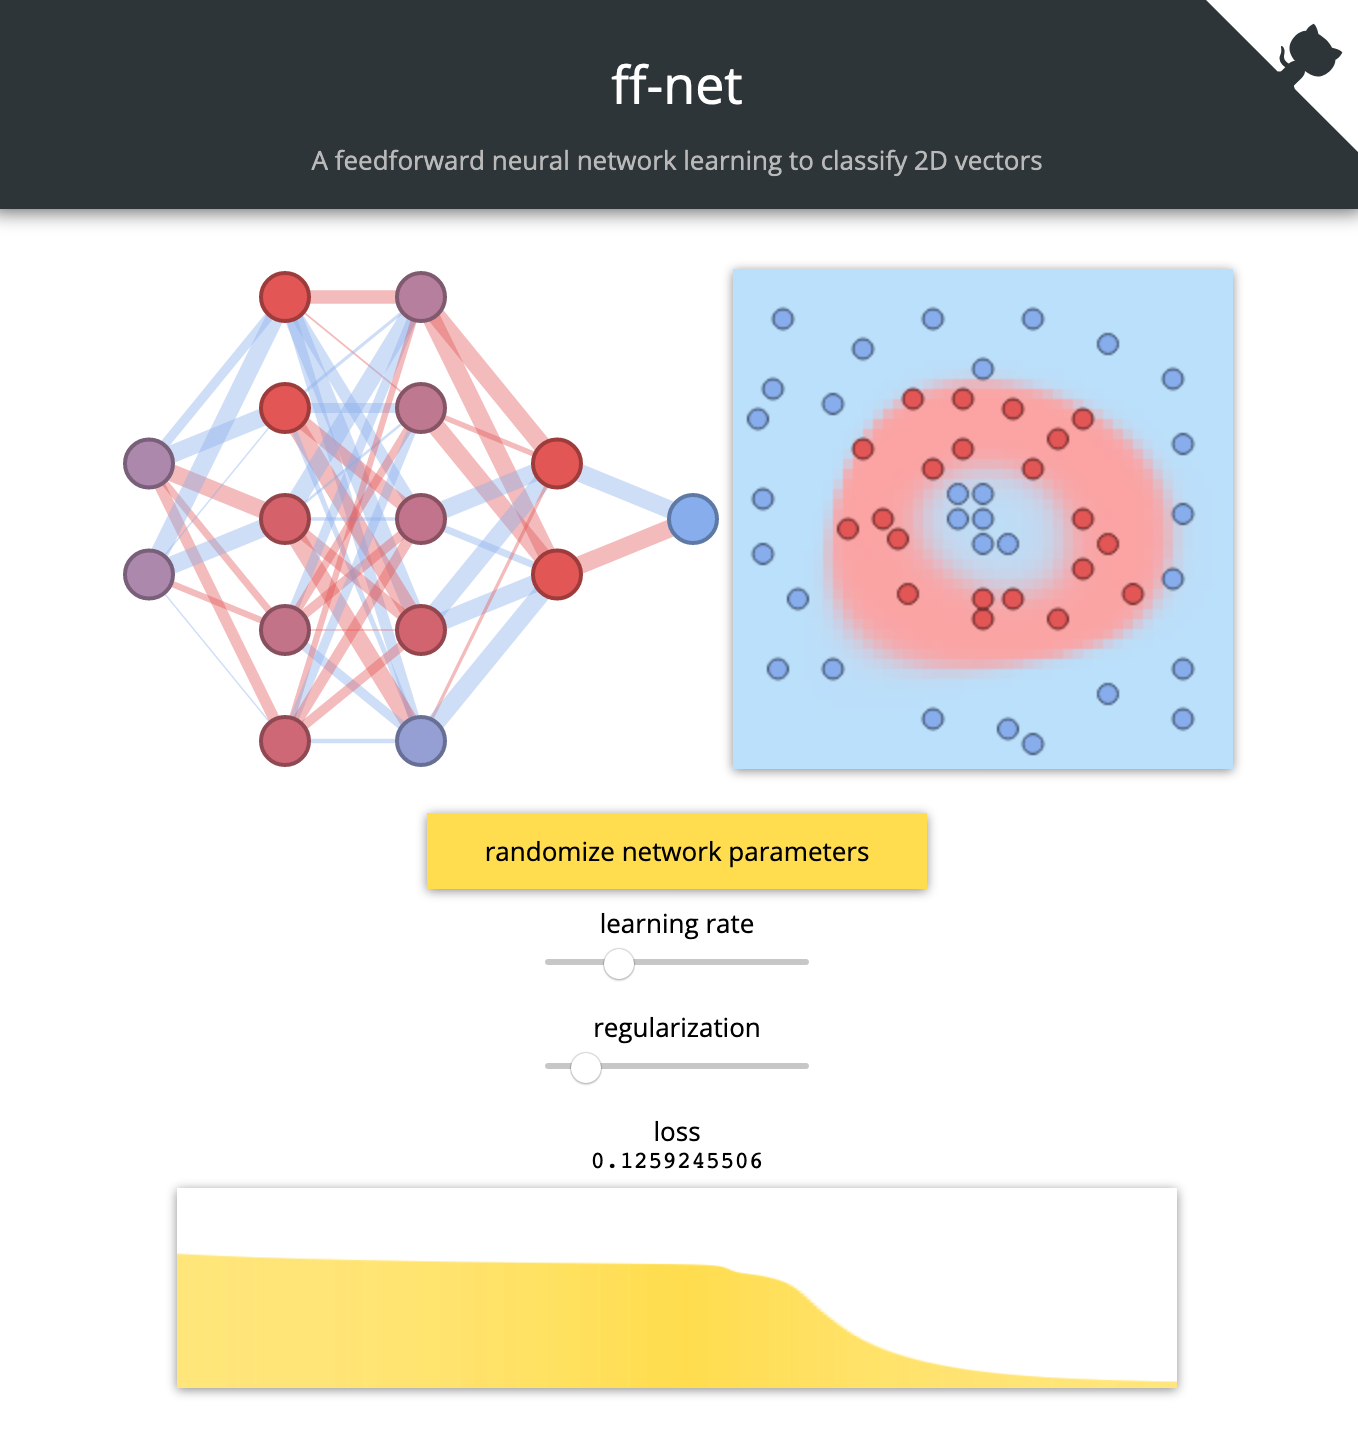
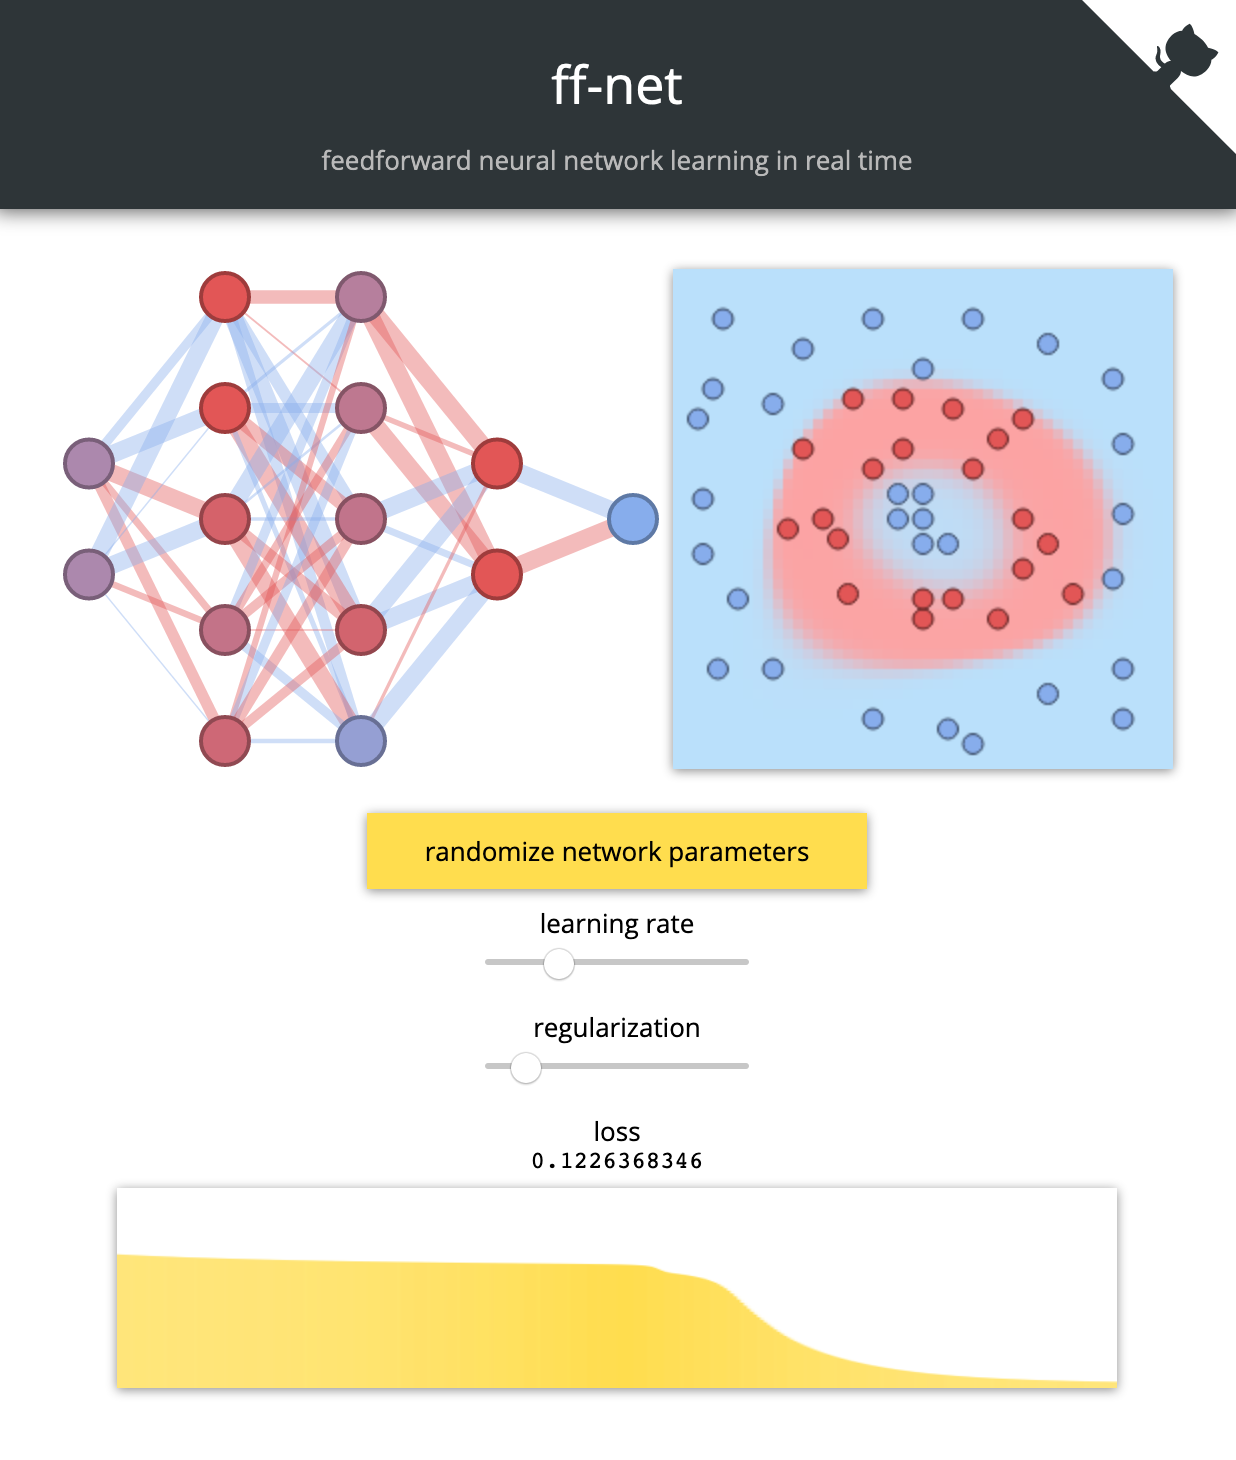
Update title

diff --git a/index.html b/index.html
@@ -13,7 +13,7 @@
     <a href="https://github.com/juniorrojas/ff-net" class="github-corner" aria-label="View source on GitHub"><svg class="view-on-github" width="80" height="80" viewBox="0 0 250 250" style="fill:#fff; color:#2d3538; position: absolute; top: 0; border: 0; right: 0;" aria-hidden="true"><path d="M0,0 L115,115 L130,115 L142,142 L250,250 L250,0 Z"></path><path d="M128.3,109.0 C113.8,99.7 119.0,89.6 119.0,89.6 C122.0,82.7 120.5,78.6 120.5,78.6 C119.2,72.0 123.4,76.3 123.4,76.3 C127.3,80.9 125.5,87.3 125.5,87.3 C122.9,97.6 130.6,101.9 134.4,103.2" fill="currentColor" style="transform-origin: 130px 106px;" class="octo-arm"></path><path d="M115.0,115.0 C114.9,115.1 118.7,116.5 119.8,115.4 L133.7,101.6 C136.9,99.2 139.9,98.4 142.2,98.6 C133.8,88.0 127.5,74.4 143.8,58.0 C148.5,53.4 154.0,51.2 159.7,51.0 C160.3,49.4 163.2,43.6 171.4,40.1 C171.4,40.1 176.1,42.5 178.8,56.2 C183.1,58.6 187.2,61.8 190.9,65.4 C194.5,69.0 197.7,73.2 200.1,77.6 C213.8,80.2 216.3,84.9 216.3,84.9 C212.7,93.1 206.9,96.0 205.4,96.6 C205.1,102.4 203.0,107.8 198.3,112.5 C181.9,128.9 168.3,122.5 157.7,114.1 C157.9,116.9 156.7,120.9 152.7,124.9 L141.0,136.5 C139.8,137.7 141.6,141.9 141.8,141.8 Z" fill="currentColor" class="octo-body"></path></svg></a><style>.view-on-github{cursor: pointer}.github-corner:hover .octo-arm{animation:octocat-wave 560ms ease-in-out}@keyframes octocat-wave{0%,100%{transform:rotate(0)}20%,60%{transform:rotate(-25deg)}40%,80%{transform:rotate(10deg)}}@media (max-width:500px){.github-corner:hover .octo-arm{animation:none}.github-corner .octo-arm{animation:octocat-wave 560ms ease-in-out}}</style>
     <div class="title-container">
       <h1>ff-net</h1>
-      <h2 style="padding-right: 15px; padding-left: 15px;">A feedforward neural network learning to classify 2D vectors</h2>
+      <h2 style="padding-right: 15px; padding-left: 15px;">feedforward neural network learning in real time</h2>
     </div>
     <script src="./dist-js/main.js"></script>
   </body>

diff --git a/README.md b/README.md
@@ -1,6 +1,8 @@
 # ff-net
 
-A feedforward neural network learning in real time. [See the live demo.](http://juniorrojas.github.io/ff-net)
+Feedforward neural network learning in real time.
+
+[live demo](http://juniorrojas.github.io/ff-net)
 
 ![screenshot](media/screenshot.png)
 
